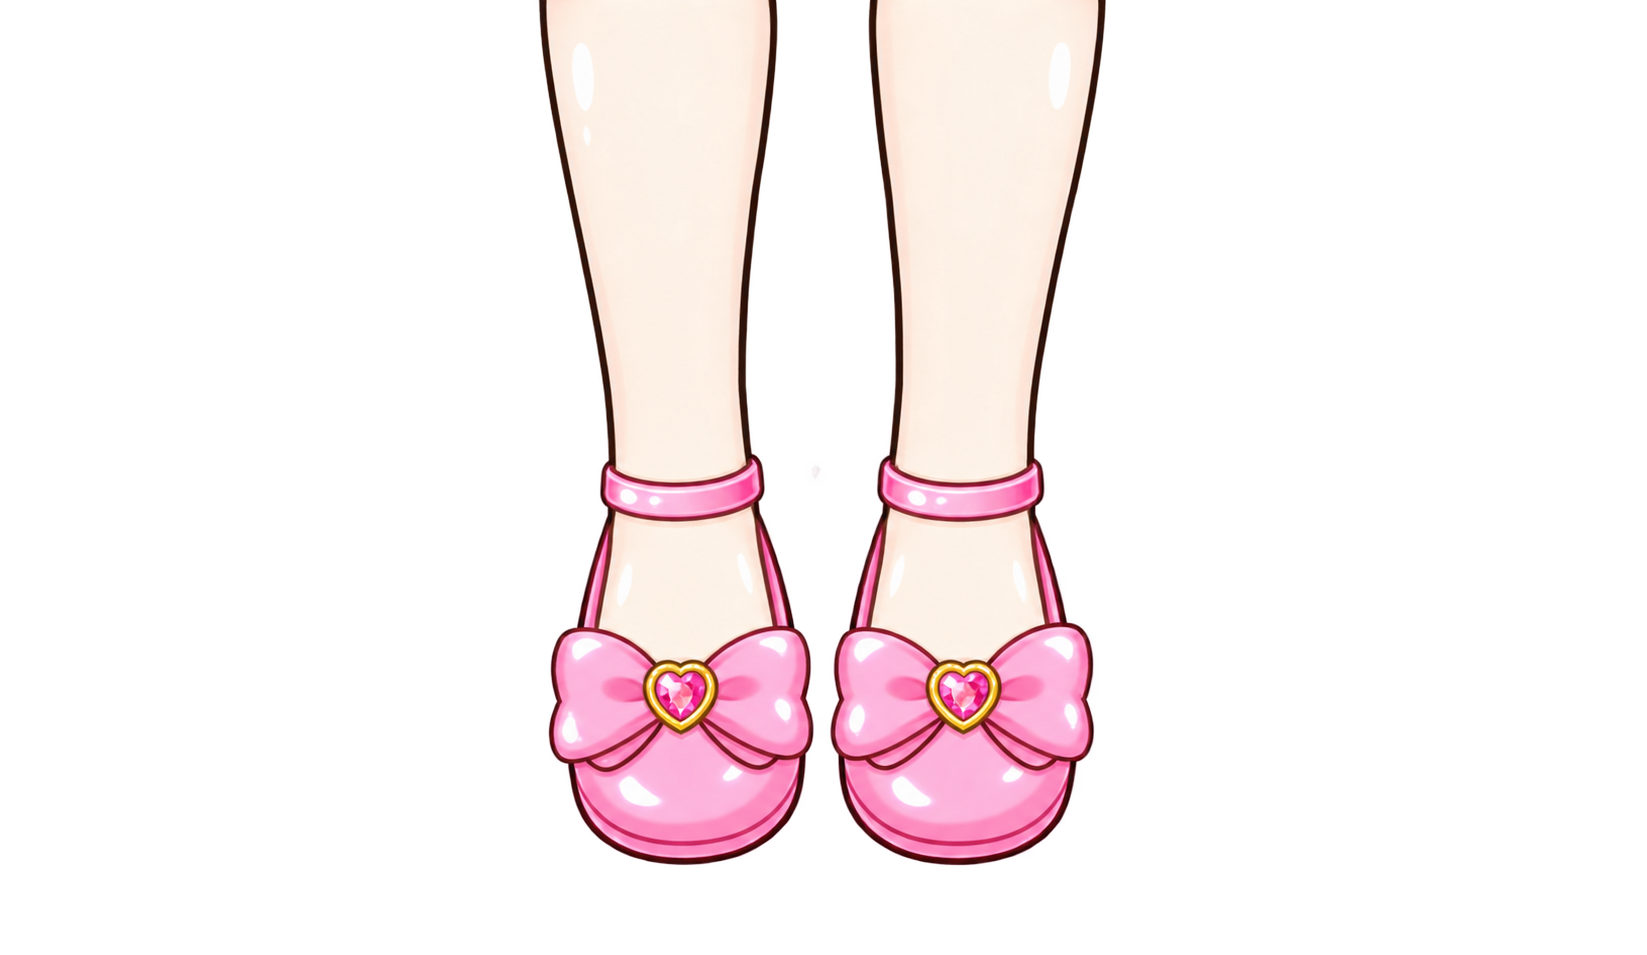
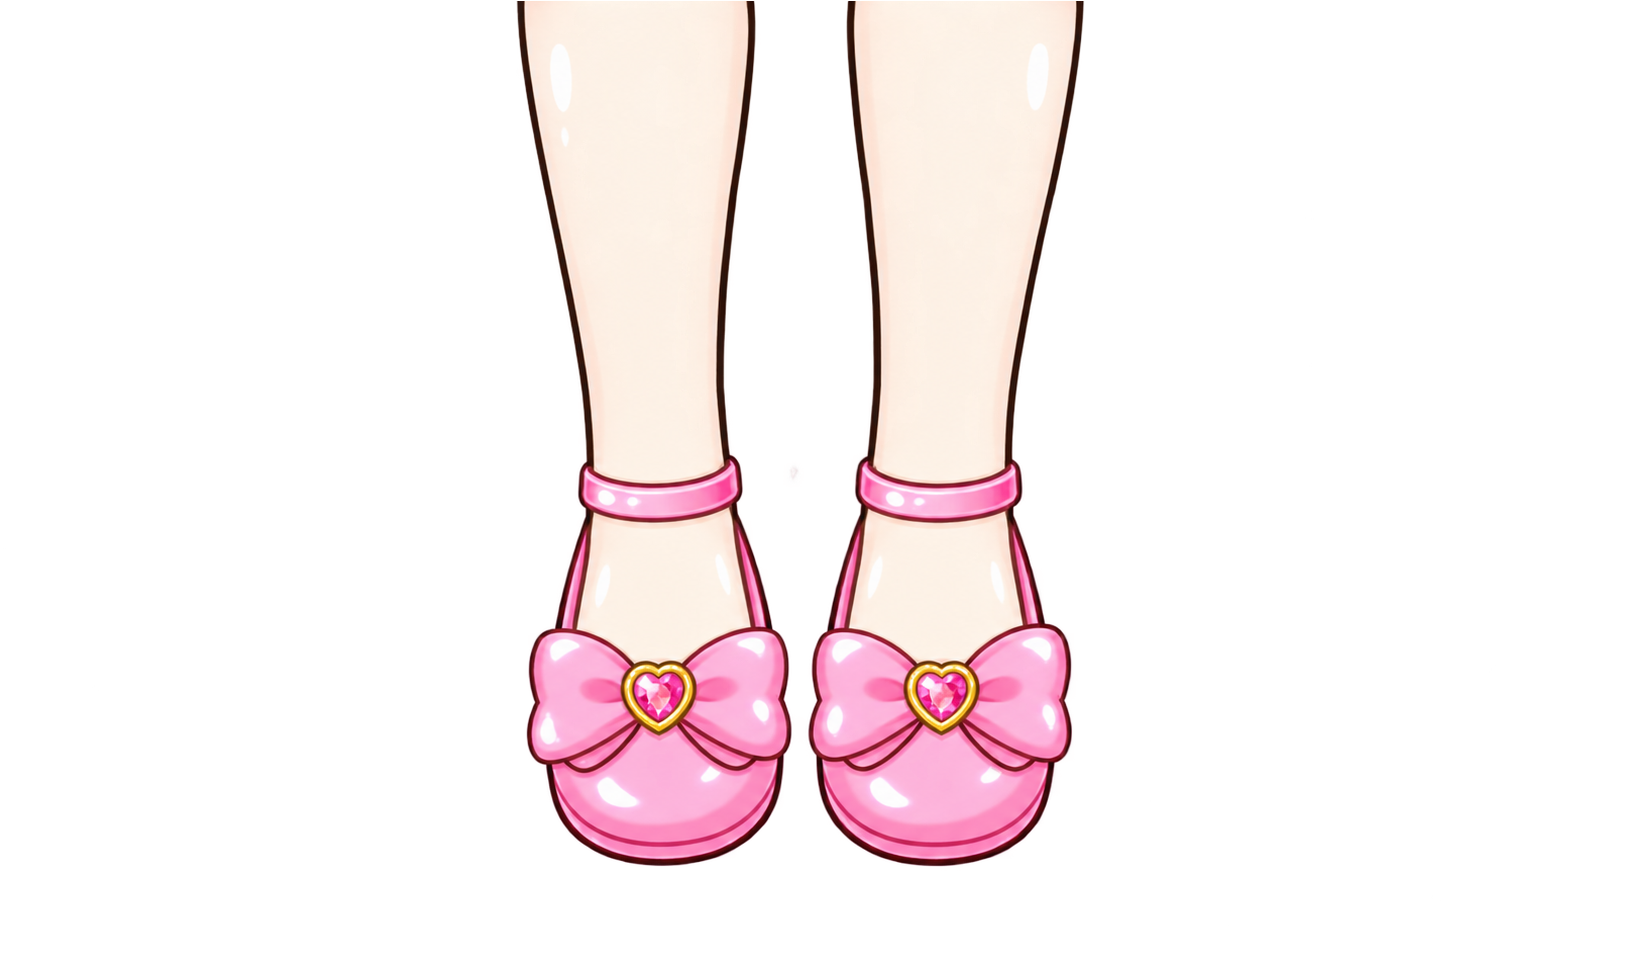
Fixed body parts alignment, added control pad image

Changed region(s): [[0.3097, 0.0, 0.6812, 0.911]]

diff --git a/src/components/Character/Character.css b/src/components/Character/Character.css
@@ -31,11 +31,11 @@
 }
 
 .character__head {
-  z-index: 1;
+  z-index: 3;
 }
 
 .character__body {
-  z-index: 3;
+  z-index: 2;
 }
 
 .character__feet {
